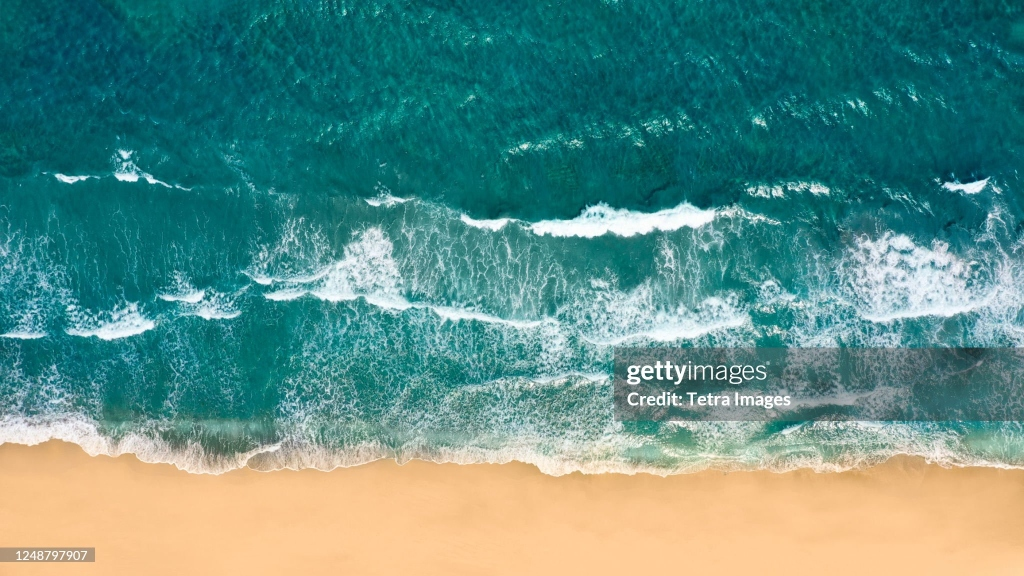
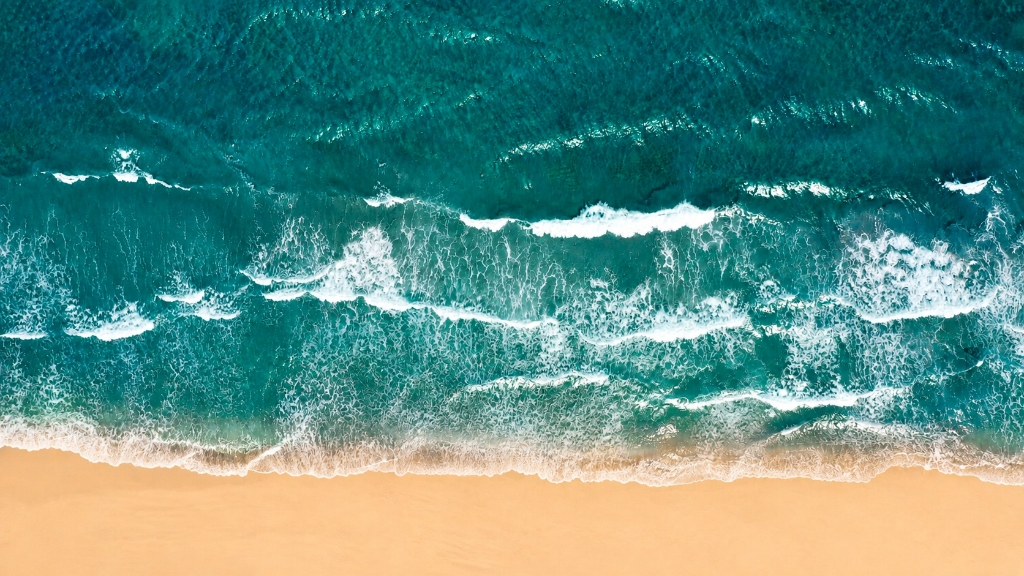
feat: replace footer background with clean watermark-free 4K aerial ocean image

diff --git a/src/components/Footer.tsx b/src/components/Footer.tsx
@@ -13,9 +13,9 @@ export function Footer() {
         <img
           src="/images/footer-bg.jpg"
           alt="Footer Ocean Background"
-          className="w-full h-full object-cover opacity-25 scale-105"
+          className="w-full h-full object-cover opacity-35 transition-transform duration-1000 hover:scale-105"
         />
-        <div className="absolute inset-0 bg-gradient-to-b from-black/90 via-black/85 to-black/95 backdrop-blur-[2px]" />
+        <div className="absolute inset-0 bg-gradient-to-b from-black/85 via-black/75 to-black/90 backdrop-blur-[1px]" />
       </div>
 
       <div className="relative z-10 max-w-[1600px] mx-auto px-6 md:px-12">
